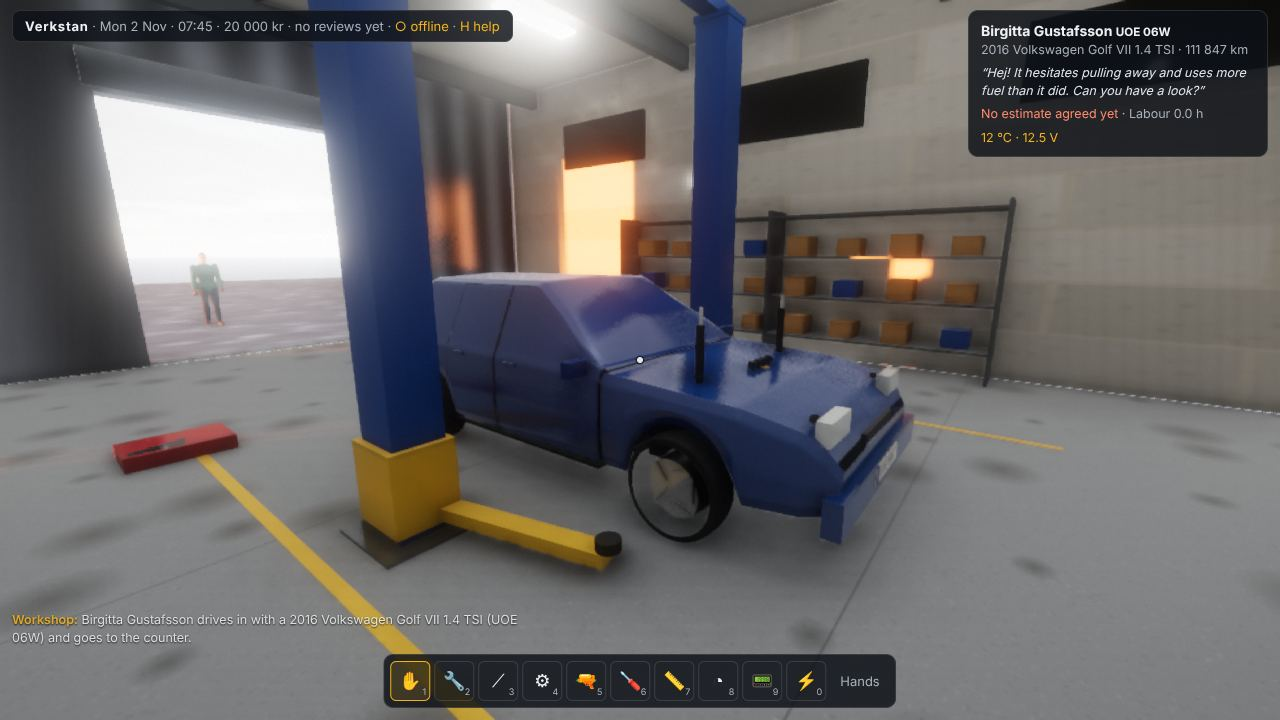
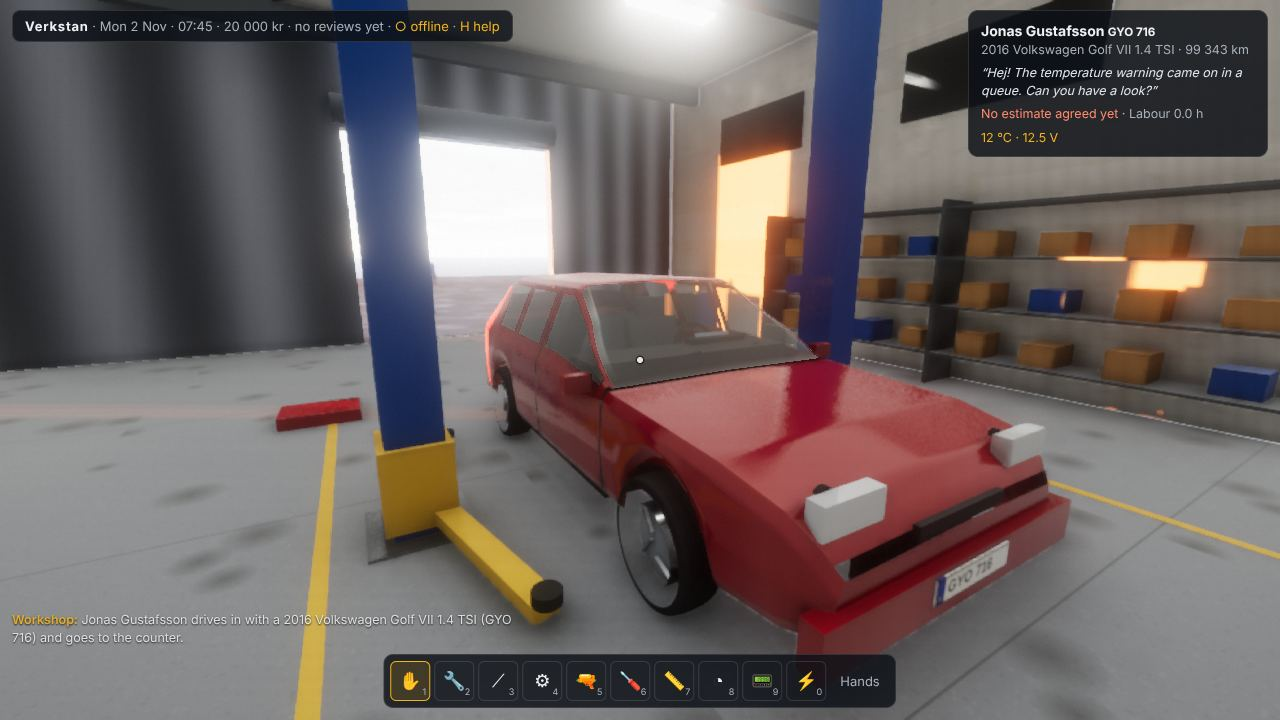
Verkstan: real see-through car glass
The windows were never glass: the body's geometry groups were split on a property three.js
does not have (mat instead of materialIndex), so every window was painted. Now they are split
right, and a glass pass (render/carGlass.js) draws the car's own curved glass over the finished
image, tinted, with Fresnel reflections of the hall, moving with the car and its doors. The
Golf's engine sits lower so its coils stay under the bonnet.

Claude-Session: https://claude.ai/code/session_014Z2wUYDbFAVEkqk6v8KxKa

diff --git a/games/verkstad/src/render/carGlass.js b/games/verkstad/src/render/carGlass.js
@@ -1,0 +1,117 @@
+/**
+ * Car glass, see-through. The Med Engine is a deferred renderer and draws only opaque surfaces, so
+ * glass is drawn over the finished image, as Glass Elevator and Gotthard Pullman draw theirs: here
+ * not flat panes but the car's own curved glass (the windscreen, the door glass, the rear window,
+ * lofted with the body in car/body.js), each mesh with its own model matrix, so it moves with the
+ * car on the lift, the doors as they swing and the tailgate as it lifts.
+ *
+ * Each pixel of glass: hidden if something in the scene is in front of it; otherwise it lets
+ * through what is behind it (the seats, the dashboard, the steering wheel), dimmed by the
+ * glass's light green-grey tint, and adds its reflection by Fresnel (4 % head-on, nearly a mirror
+ * at grazing angles): in the hall, its walls and the streaks of the LED panels in the ceiling;
+ * outside, the sky.
+ */
+import { Program, Target, postProgram, fullscreen, state } from '../../../duel1403/src/engine/gl/GL.js';
+import { COMMON } from '../../../duel1403/src/engine/shaders/common.js';
+
+const VS = /* glsl */`
+layout(location = 0) in vec3 aPos;
+layout(location = 1) in vec3 aNormal;
+uniform mat4 uViewProj, uModel;
+out vec3 vWorld; out vec3 vNormal; out vec4 vClip;
+void main() {
+  vec4 w = uModel * vec4(aPos, 1.0);
+  vWorld = w.xyz;
+  vNormal = mat3(uModel) * aNormal;
+  vClip = uViewProj * w;
+  gl_Position = vClip;
+}`;
+
+const FS = /* glsl */`
+${COMMON}
+in vec3 vWorld; in vec3 vNormal; in vec4 vClip;
+uniform highp sampler2D uDepth;
+uniform mat4 uInvProj;
+uniform samplerCube uEnv;
+uniform vec3 uCameraPos, uHall;
+uniform float uIndoor;
+out vec4 o;
+void main() {
+  vec2 ndc = vClip.xy / vClip.w;
+  float d = texture(uDepth, ndc * 0.5 + 0.5).r;
+  vec4 sp = uInvProj * vec4(ndc, d * 2.0 - 1.0, 1.0);
+  if (d < 1.0 && -sp.z / sp.w < vClip.w - 0.015) discard;
+  vec3 V = normalize(uCameraPos - vWorld);
+  vec3 N = normalize(vNormal);
+  if (dot(N, V) < 0.0) N = -N;
+  float c = max(dot(N, V), 0.0);
+  float F = 0.04 + 0.96 * pow5(1.0 - c);
+  vec3 R = reflect(-V, N);
+  float up = max(R.y, 0.0);
+  vec3 hall = uHall * (0.5 + 1.4 * up) + uHall * 40.0 * pow(up, 48.0) * (0.6 + 0.4 * vnoise(vWorld.xz * 3.0));
+  vec3 refl = mix(min(textureLod(uEnv, R, 0.3).rgb, vec3(12.0)), hall, uIndoor);
+  float absorb = 0.16 + 0.1 * (1.0 - c);          // the tint: thicker glass at a slant
+  o = vec4(refl * F * vec3(0.92, 1.0, 0.96), clamp(F + absorb, 0.0, 1.0));
+  if (!(abs(o.r) + abs(o.g) + abs(o.b) + abs(o.a) < 1e30)) o = vec4(0.0);
+  o = clamp(o, vec4(0.0), vec4(6e4, 6e4, 6e4, 1.0));
+}`;
+
+export class CarGlass {
+  constructor() { this.name = 'carglass'; this.enabled = true; this.meshes = []; this.vaos = new WeakMap(); this.hall = [0.016, 0.0155, 0.015]; this.indoor = 1; }
+
+  /** The glass meshes to draw (a car's; replaced when the next car comes). */
+  set(meshes) { this.meshes = meshes ?? []; }
+
+  init(r) {
+    this.gl = r.gl;
+    this.prog = new Program(r.gl, VS, FS, {}, 'carglass');
+    this.copy = postProgram(r.gl, 'in vec2 vUv; out vec4 o; uniform sampler2D uC; void main(){ o = texture(uC, vUv); }', {}, 'carglass-copy');
+  }
+
+  resize(r) {
+    if (!this.target) this.target = new Target(r.gl, { width: r.displayW, height: r.displayH, colors: [{ format: 'rgba16f' }] });
+    else this.target.resize(r.displayW, r.displayH);
+  }
+
+  _vao(mesh) {
+    let v = this.vaos.get(mesh);
+    if (v) return v;
+    const gl = this.gl, g = mesh.geometry;
+    const vao = gl.createVertexArray();
+    gl.bindVertexArray(vao);
+    for (const [loc, name] of [[0, 'position'], [1, 'normal']]) {
+      const b = gl.createBuffer(); gl.bindBuffer(gl.ARRAY_BUFFER, b);
+      gl.bufferData(gl.ARRAY_BUFFER, g.attributes[name].array, gl.STATIC_DRAW);
+      gl.enableVertexAttribArray(loc); gl.vertexAttribPointer(loc, 3, gl.FLOAT, false, 0, 0);
+    }
+    gl.bindVertexArray(null);
+    v = { vao, count: g.attributes.position.count };
+    this.vaos.set(mesh, v);
+    return v;
+  }
+
+  afterLighting(r, color) {
+    const list = this.meshes.filter(shown);
+    if (!list.length) return color;
+    const gl = r.gl;
+    this.target.bind();
+    state(gl);
+    this.copy.use().set('uC', color);
+    fullscreen(gl);
+    gl.enable(gl.BLEND);
+    gl.blendFuncSeparate(gl.ONE, gl.ONE_MINUS_SRC_ALPHA, gl.ZERO, gl.ONE);
+    const P = this.prog.use().set('uViewProj', r.viewProj).set('uCameraPos', r.cameraPos).set('uDepth', r.depth).set('uInvProj', r.invProj)
+      .set('uEnv', r.env.spec).set('uHall', this.hall).set('uIndoor', this.indoor);
+    for (const m of list) {
+      const v = this._vao(m);
+      P.set('uModel', m.matrixWorld);
+      gl.bindVertexArray(v.vao);
+      gl.drawArrays(gl.TRIANGLES, 0, v.count);
+    }
+    gl.bindVertexArray(null);
+    gl.disable(gl.BLEND);
+    return this.target.tex;
+  }
+}
+
+function shown(o) { for (let p = o; p; p = p.parent) if (!p.visible) return false; return !!o.parent; }

diff --git a/games/verkstad/src/render/carGL.js b/games/verkstad/src/render/carGL.js
@@ -24,6 +24,7 @@ export class CarGL {
     this.groups = new Map();        // partId -> Group
     this.fastMeshes = new Map();    // fastId -> Mesh
     this.pickables = [];
+    this.glassMeshes = [];          // drawn by render/carGlass.js, see-through, not by the deferred pass
     this.mat = (m) => (m === 'paint' ? this.paint : m === 'clusterScreen' ? this.clusterMat : this.M[m] ?? this.M.steel);
     this._cluster();
     this.engineGroup = new Group();
@@ -48,7 +49,8 @@ export class CarGL {
     const add = (geo, grp, partId) => {
       for (const { geo: g, mat } of splitGroups(geo)) {
         const m = new Mesh(g, mat === 1 ? glass : paint);
-        m.castShadow = true; m.receiveShadow = true; m.userData.partId = partId;
+        m.castShadow = mat !== 1; m.receiveShadow = true; m.userData.partId = partId;
+        if (mat === 1) { m.userData.forgeSkip = true; this.glassMeshes.push(m); }
         grp.add(m); this.pickables.push(m);
       }
     };

diff --git a/games/verkstad/src/car/assembly.js b/games/verkstad/src/car/assembly.js
@@ -143,7 +143,7 @@ function buildRoadCar(A) {
   const volvo = s.id === 'volvo240';
   const lay = volvo
     ? { engZ: zF - 0.12, engY: 0.56, hoodY: 0.92, fire: zF - 0.62, radZ: zF + 0.62, batt: [0.5, 0.62, zF - 0.45], air: [-0.48, 0.66, zF + 0.32], resv: [-0.42, 0.8, zF - 0.5], fuse: [0.3, 0.55, zF - 0.95], exp: [0.55, 0.78, zF - 0.1], diag: [0.62, 0.72, zF + 0.15] }
-    : { engZ: zF + 0.12, engY: 0.52, hoodY: 0.88, fire: zF - 0.42, radZ: zF + 0.7, batt: [0.5, 0.6, zF + 0.05], air: [0.25, 0.72, zF + 0.5], resv: [0.48, 0.8, zF - 0.32], fuse: [0.62, 0.62, zF - 0.95], exp: [-0.5, 0.74, zF + 0.05], obd: [0.38, 0.5, zF - 1.0] };
+    : { engZ: zF + 0.12, engY: 0.42, hoodY: 0.88, fire: zF - 0.42, radZ: zF + 0.7, batt: [0.5, 0.6, zF + 0.05], air: [0.25, 0.72, zF + 0.5], resv: [0.48, 0.8, zF - 0.32], fuse: [0.62, 0.62, zF - 0.95], exp: [-0.5, 0.74, zF + 0.05], obd: [0.38, 0.5, zF - 1.0] };
   A.layout = lay;
   const rimR = (W.rim * 0.0254) / 2;
 

diff --git a/games/verkstad/src/render/stage.js b/games/verkstad/src/render/stage.js
@@ -22,6 +22,7 @@ import { Target, postProgram, fullscreen, state } from '../../../duel1403/src/en
 import { SKY_GLSL, SkyLUT, sunTransmittance, SUN_E0 } from '../../../gotthard-pullman/src/render/sky.js';
 import { sunPosition, sunVector } from '../../../gotthard-pullman/src/render/sun.js';
 import { patchLighting } from '../../../glass-elevator/src/render/stage.js';
+import { CarGlass } from './carGlass.js';
 
 export const PLACE = { lat: 57.721, lon: 11.94, name: 'Hisingen, Göteborg' };
 export const HALL = { x0: -9, x1: 9, z0: -7, z1: 7, h: 5.2 };
@@ -84,6 +85,7 @@ export class Stage {
     this.screen = r.addPass(new ScreenSpace());
     this.taa = r.addPass(new TAA());
     r.addPass(new Upscale());
+    this.carGlass = r.addPass(new CarGlass());
     this.exposure = r.addPass(new Exposure());
     this.exposure.minEV = -9; this.exposure.maxEV = 7; this.exposure.key = 0.15;
     this.bloom = r.addPass(new Bloom());

diff --git a/games/verkstad/src/game.js b/games/verkstad/src/game.js
@@ -81,6 +81,7 @@ export class Game {
     this.loose = []; this.held = null;
     this.carGL = new CarGL(c, this.M);
     this.stage.scene.add(this.carGL.root);
+    this.stage.carGlass.set(this.carGL.glassMeshes);
     this.carPos = { t: 0, from: YARD, to: [BAY.x, 0, BAY.z] };
     this.workshop.lift.arms = [false, false, false, false];
     for (const a of this.workshop.arms) a.userData.target = 0;
@@ -425,6 +426,7 @@ export class Game {
       for (const f of A.fasteners.values()) if (f.oiled > 0 && f.oiled < 1) soak(f, (dt * CLOCK_SCALE) / 60);
       S.step(dt * this.timeScale, { throttle: this.throttle ?? 0 });
       this._carPlace(dt);
+      this.stage.carGlass.indoor = this.carGL.root.position.z < 7.2 ? 1 : 0;
       this.carGL.update(dt);
     }
     this.workshop.update(dt);

diff --git a/games/verkstad/src/render/geo.js b/games/verkstad/src/render/geo.js
@@ -104,7 +104,7 @@ export function splitGroups(geo) {
       const a = geo.attributes[name]; if (!a) continue;
       g.setAttribute(name, new Float32BufferAttribute(a.array.slice(gr.start * a.itemSize, (gr.start + gr.count) * a.itemSize), a.itemSize));
     }
-    out.push({ geo: normalise(g), mat: gr.mat });
+    out.push({ geo: normalise(g), mat: gr.materialIndex });
   }
   return out;
 }
